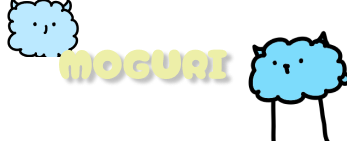
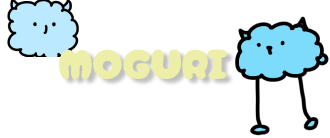
2 (#54)
* 슬라이드 오늘의 식단(상세 식단에 칼로리 입력시 오늘의 식단 아침에 칼로리 총합 나오게 함!), 오늘의 운동 (#45)

* 난 모름 현동이가 했음! (#46)

* 좆버그 해결 (#47)

* 사이드바 오늘의 식단, 오늘의 운동 완성! (#48)

* 1 (#49)

* nav 수정 (#51)

* Feature/GitHub pages deploy (#52)

* 1

* 2

* Feature/GitHub pages deploy (#53)

* 1

* 2

* 3

---------

Changed region(s): [[0.0, 0.0, 1.0, 1.0]]

diff --git a/src/components/Nav.css b/src/components/Nav.css
@@ -18,7 +18,7 @@
 
 .banner-image {
   height: 70px;
-  width: 150px; /* 적절한 너비 설정 */
+  width: 200px; /* 적절한 너비 설정 */
   background-image: url('../assets/image/moguri-banner.png');
   background-size: contain;
   background-repeat: no-repeat;
@@ -38,7 +38,7 @@
 
 .community-image {
   height: 70px;
-  width: 150px; /* 적절한 너비 설정 */
+  width: 200px; /* 적절한 너비 설정 */
   background-image: url('../assets/image/moguri-community.png');
   background-size: contain;
   background-repeat: no-repeat;

diff --git a/vite.config.js b/vite.config.js
@@ -9,7 +9,7 @@ const __dirname = path.dirname(__filename);
 
 // https://vitejs.dev/config/
 export default defineConfig({
-  base: "/https://github.com/lhdmir/moguri_fe.git/",
+  // base: "/https://github.com/lhdmir/moguri_fe.git/",
   plugins: [react()],
   resolve: {
     alias: {
